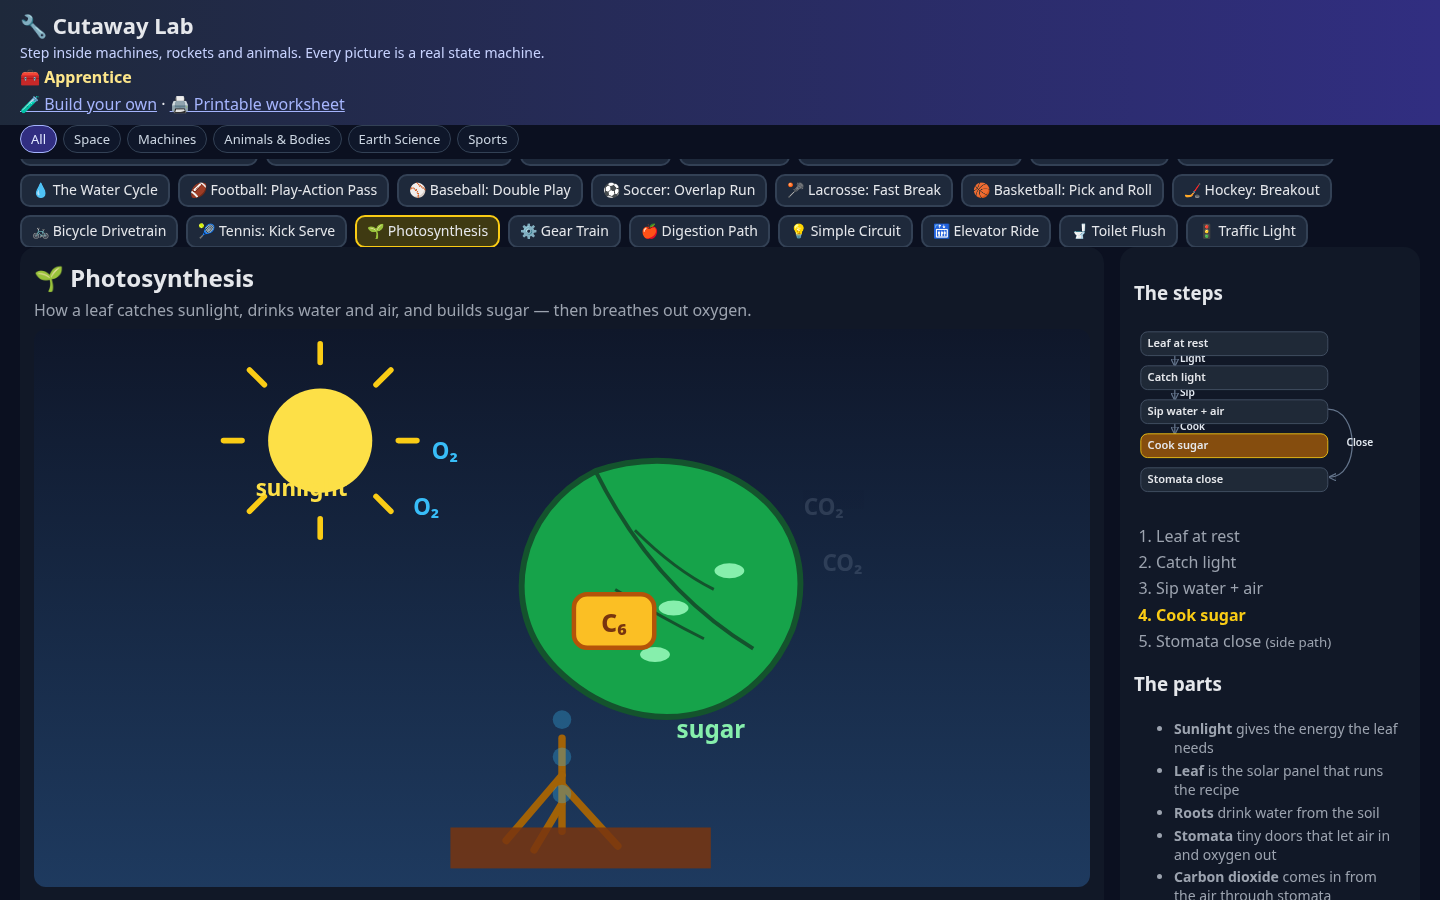
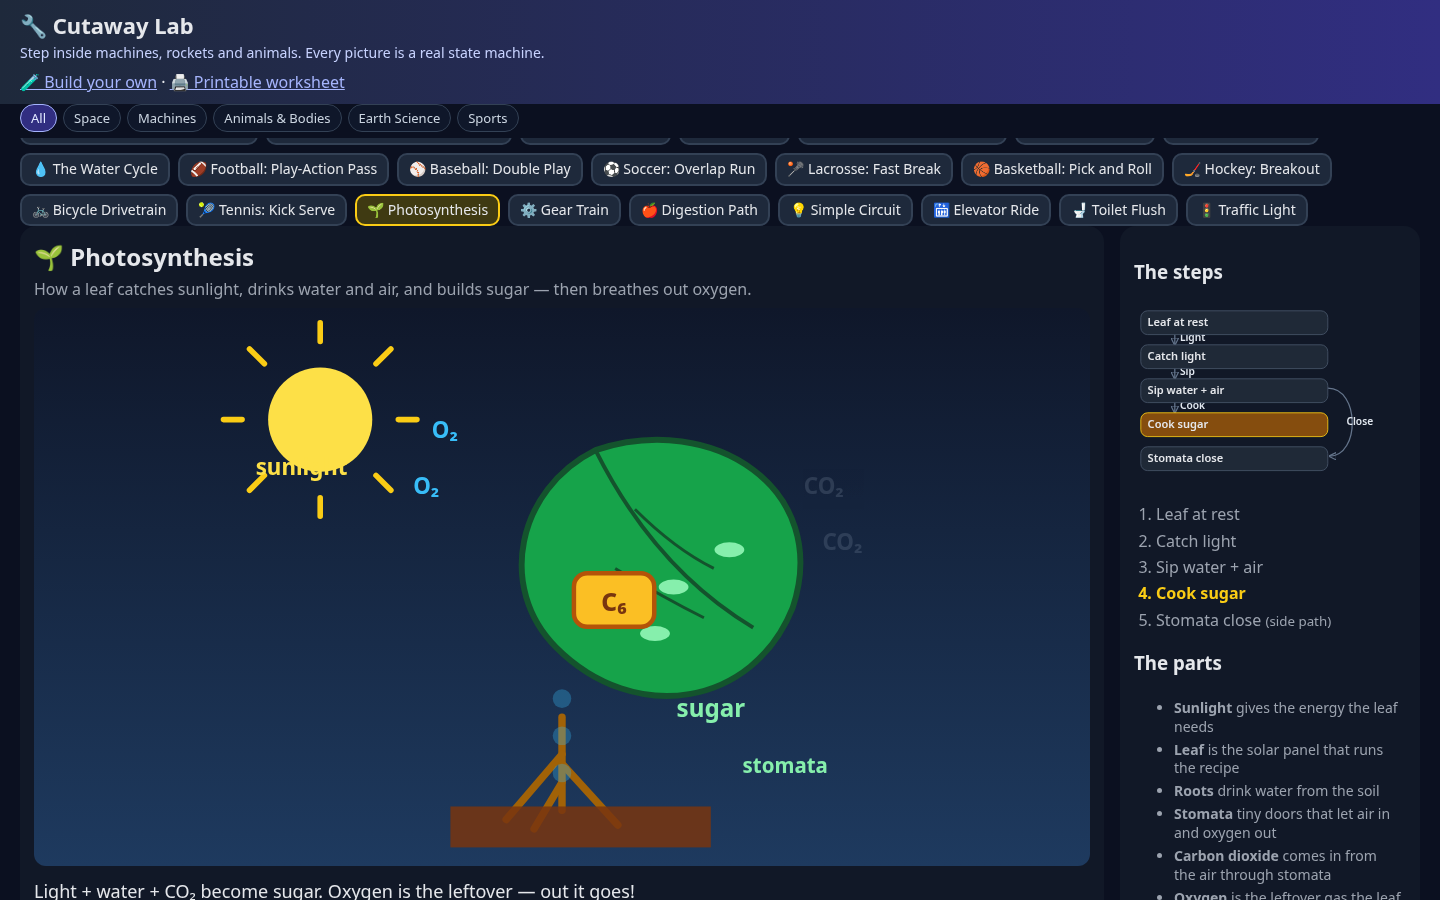
v1.0: photosynthesis stomata caption

Changed region(s): [[0.0, 0.0622, 1.0, 1.0], [0.0, 0.4667, 0.7812, 1.0]]

diff --git a/machines/photo.js b/machines/photo.js
@@ -15,6 +15,8 @@ export default {
       svg: '<g stroke="#a16207" stroke-width="4" fill="none" stroke-linecap="round"><path d="M200 220 V270"/><path d="M200 240 L170 275"/><path d="M200 245 L230 278"/><path d="M200 255 L185 280"/></g><rect x="140" y="268" width="140" height="22" fill="#78350f" opacity=".85"/>', explode: [0, 30] },
     { id: 'stomata', label: 'Stomata', job: 'tiny doors that let air in and oxygen out',
       svg: '<g fill="#86efac"><ellipse cx="260" cy="150" rx="8" ry="4"/><ellipse cx="290" cy="130" rx="8" ry="4"/><ellipse cx="250" cy="175" rx="8" ry="4"/></g>', explode: [40, 10] },
+    { id: 'lblStomata', label: 'Stomata label',
+      svg: '<text x="320" y="250" text-anchor="middle" fill="#86efac" font-size="11" font-weight="700">stomata</text>' },
     { id: 'co2', label: 'Carbon dioxide', job: 'comes in from the air through stomata',
       svg: '<g fill="#94a3b8" font-size="12" font-weight="700"><text x="330" y="100">CO₂</text><text x="340" y="130">CO₂</text></g>', pose: { opacity: 0.3 } },
     { id: 'o2', label: 'Oxygen', job: 'is the leftover gas the leaf breathes out',
